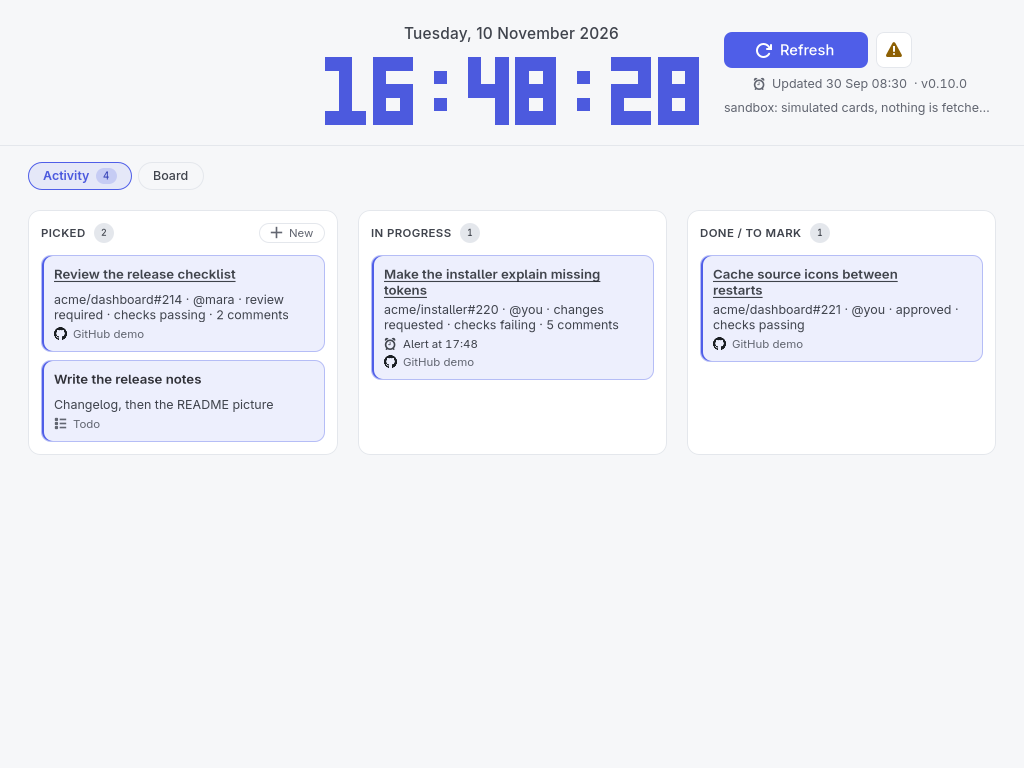
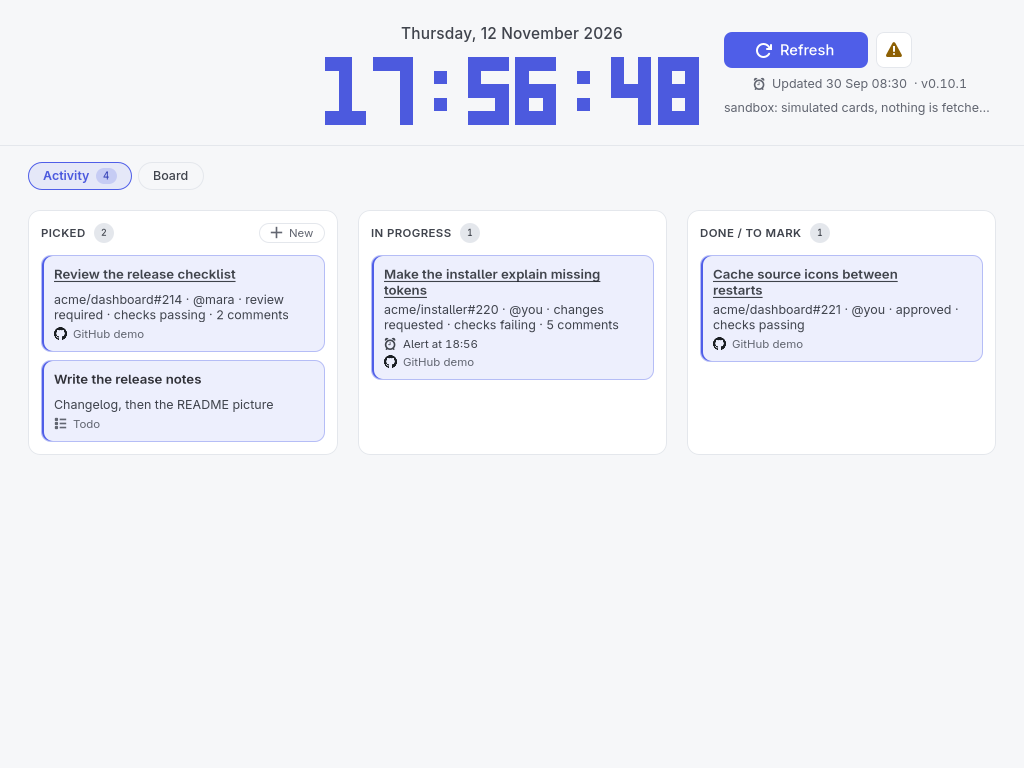
chore(release): prepare v0.10.1

diff --git a/CHANGELOG.md b/CHANGELOG.md
@@ -1,6 +1,8 @@
 # Changelog
 
-## Unreleased
+## 0.10.1
+
+A todo 40 minutes in Done is deleted, and nothing of it is kept.
 
 ### Changed
 
